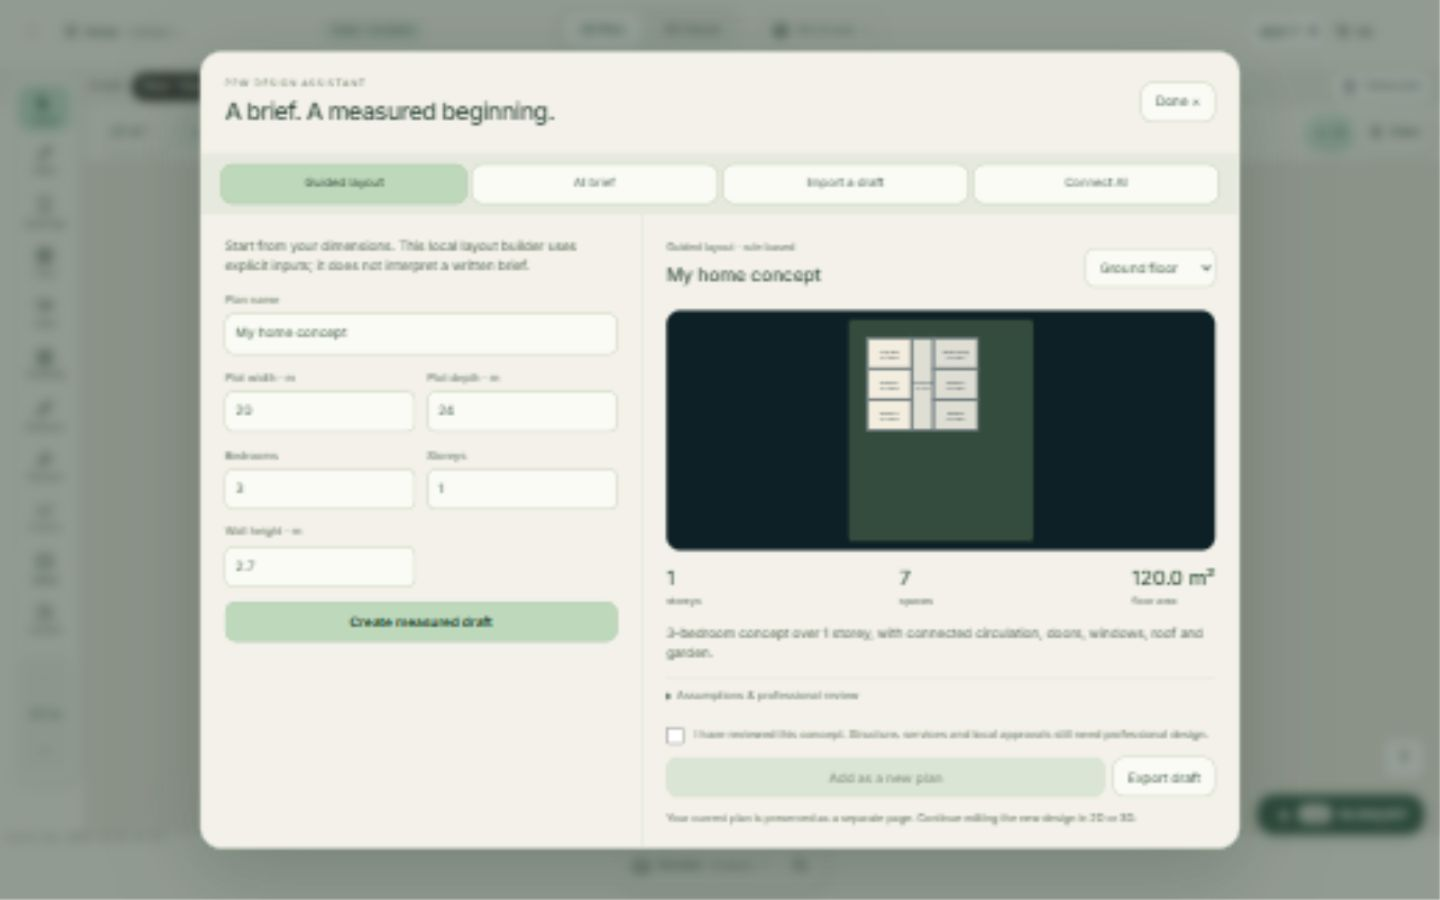
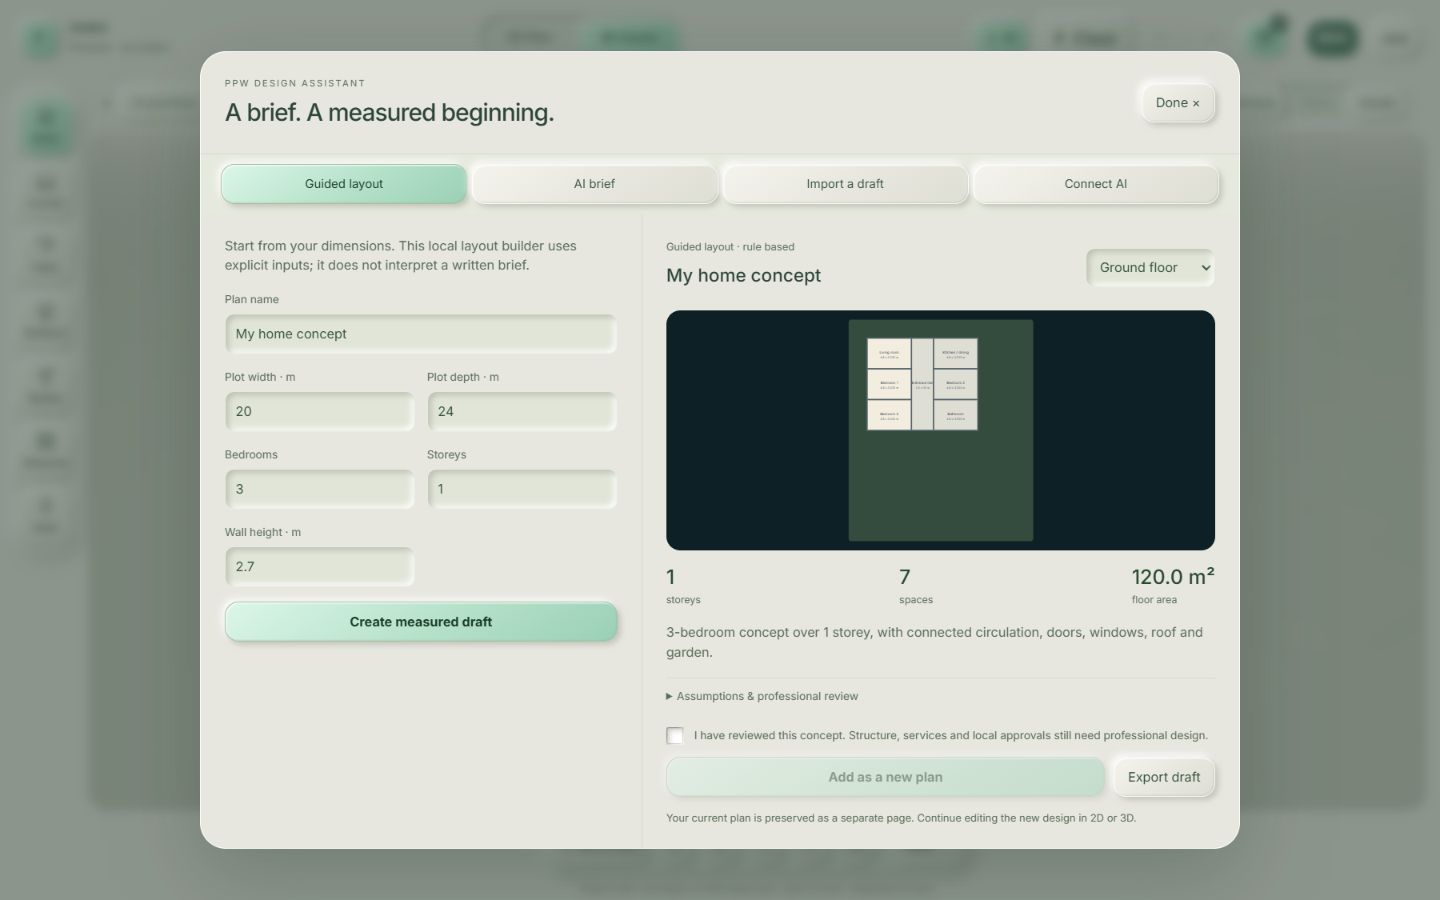
Refresh pitch captures from refined live Designer

diff --git a/docs/SCULPTED-REALISM-2026-10-04.md b/docs/SCULPTED-REALISM-2026-10-04.md
@@ -1,6 +1,6 @@
 # Sculpted UI and realism refinement — 4 October 2026
 
-Status: implementation and local verification complete; feature deployment and pitch screenshot refresh pending. This is the second pass after Victor rejected the first October 4 appearance.
+Status: application deployed; real app pitch captures refreshed. Final route verification and link synchronization pending. This is the second pass after Victor rejected the first October 4 appearance.
 
 Checkout: `C:\Users\Victor\Documents\Codex\2026-09-23\c\work\ppw-designer`
 Branch: `cursor/feat-3d-flooring-hud-bc95`
@@ -23,5 +23,9 @@ Last verified preview before this pass: `https://ppw-designer-2d-31cpgr056-victo
 ## Resume / remaining
 
 Commit and push feature branch only; visually check desktop/phone and fresh generic seed on a unique deployment. Refresh actual app screenshots in `public/showcase` for pitches. Verify `/designer`, legacy TintEX, demo 2D/3D and pitch routes on the unique host, update BUILD-LINKS/CURRENT-WORK-LINKS and Desktop handoff. Include real screenshots in the final response. Do not claim photographic parity or exact manufacturer CAD: richer materials and measured dimensional previews remain approximations.
+
+Application `ce9d9b6f3ab170ae6a7aa2ec37781fad76364bd3` deployed successfully as Vercel `6835649445` at `https://ppw-designer-2d-aouziw3ca-victor-ppw.vercel.app`. Health confirms this commit. All eight Designer/demo/Studio/pitch routes returned HTTP200. Fresh generic demo visually verified with 61 scene parts / 36 placed products, actual new paint selections and Rs535,402 estimate; Plan and House render, 390px phone has no horizontal body overflow. Guided layout created a 120m² concept preview without applying it. Separate browser navigation checks for legacy TintEX timed out; repeat on the following screenshot publication before marking fully verified. Production health still confirms `71db6af8cfdd6f0128ae8ea663c69fab104b6e5e`.
+
+Actual captures: `C:\Users\Victor\Documents\Codex\2026-09-23\c\outputs\Room-Designer-{Plan,3D,AI,Phone}-Refined-2026-10-04.jpg`. Plan/3D/AI captures replace the corresponding `public/showcase` assets. 28 pitch integration tests pass after replacement.
 
 Original checkout and recovery stash `649569db5766b86c5880321f6cfea782f356da1f` remain untouched. Production was `71db6af8cfdd6f0128ae8ea663c69fab104b6e5e` at the previous verification.
